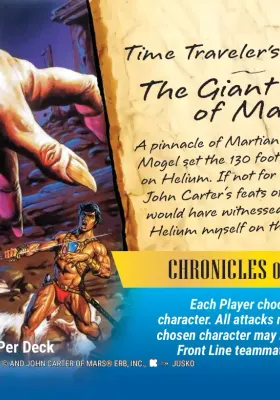
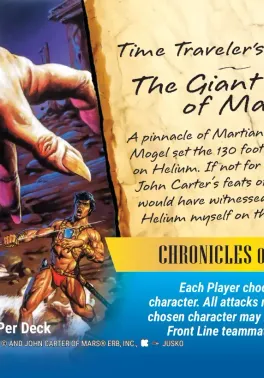
deck selection: tile preview sizing, CSS frame, thumbnail presets
Location/mission deck-tile art: transparent letterbox to cover full-bleed, then 10% smaller, then 5% larger. Update deck-selection.css frame and border-radius. Adjust locations and missions/events presets in generateCardThumbnails.ts; regenerate event thumbnails. Refresh IMAGE_PIPELINE.md and STYLE_GUIDE.md.

diff --git a/src/scripts/generateCardThumbnails.ts b/src/scripts/generateCardThumbnails.ts
@@ -26,9 +26,9 @@ type ThumbResizeConfig = {
 };
 
 const PRESET_CHARACTER: ThumbResizeConfig = { width: 380, height: 280, fit: 'cover' };
-const PRESET_MISSION: ThumbResizeConfig = { width: 280, height: 400, fit: 'cover' };
-/** Matches deck tile slot 250×160 (2×); `cover` fills the frame with no letterboxing (may crop tall/wide art). */
-const PRESET_LOCATION: ThumbResizeConfig = { width: 500, height: 320, fit: 'cover' };
+const PRESET_MISSION: ThumbResizeConfig = { width: 264, height: 378, fit: 'cover' };
+/** Matches deck tile location slot 236×151 (2×); `cover` fills the frame (may crop tall/wide art). */
+const PRESET_LOCATION: ThumbResizeConfig = { width: 472, height: 302, fit: 'cover' };
 
 /** One entry per top-level folder under src/resources/cards/images (excluding backgrounds, etc.). */
 const THUMB_CONFIGS: Record<string, ThumbResizeConfig> = {
@@ -150,7 +150,7 @@ async function generateThumbnails(): Promise<void> {
     console.log('   --force: regenerating all thumbnails (ignoring skip cache)');
   }
   console.log(
-    '   Presets: character-like 380×280 cover; mission/event-like 280×400 cover; locations 500×320 cover (2× retina) | WebP quality:',
+    '   Presets: character-like 380×280 cover; mission/event-like 264×378 cover; locations 472×302 cover (2× retina) | WebP quality:',
     WEBP_QUALITY
   );
   console.log('');

diff --git a/public/css/deck-selection.css b/public/css/deck-selection.css
@@ -132,8 +132,8 @@
 }
 
 .deck-card.deck-tile.deck-tile--compact .deck-tile-location-preview {
-    width: 250px;
-    height: 160px;
+    width: 236px;
+    height: 151px;
     border-color: rgba(254, 202, 87, 0.45);
     /* Slightly tighter radius + clip so background art matches the frame edge-to-edge */
     border-radius: 10px;
@@ -141,9 +141,9 @@
 }
 
 .deck-card.deck-tile.deck-tile--compact .deck-tile-mission-preview {
-    width: 140px;
-    height: 200px;
-    border-radius: 18px;
+    width: 132px;
+    height: 189px;
+    border-radius: 17px;
 }
 
 /* Hover focus for location/mission previews (match character-accordion “lift” feel) */

diff --git a/docs/current/IMAGE_PIPELINE.md b/docs/current/IMAGE_PIPELINE.md
@@ -44,8 +44,8 @@ Dimensions match the exact CSS pixel sizes used on deck tiles. Changing either r
 | Preset (in `THUMB_CONFIGS`) | 2× source (Sharp) | Typical use |
 |----------------------------|-------------------|-------------|
 | Character-like (`cover`)   | 380×280           | characters, specials, power-cards, aspects, universe folders |
-| Mission-like (`cover`)     | 280×400           | missions, events |
-| Location-like (`cover`)    | 500×320           | locations |
+| Mission-like (`cover`)     | 264×378           | missions, events |
+| Location-like (`cover`)    | 472×302           | locations |
 
 Deck tile CSS still targets characters / locations / missions in `public/css/deck-selection.css`. Other card types reuse the character or mission preset for list/search thumbnails.
 
@@ -54,7 +54,7 @@ To change dimensions, update `THUMB_CONFIGS` in `src/scripts/generateCardThumbna
 ### Resize fit (`cover` vs `contain`)
 
 - **Characters** and **missions**: thumbnails use Sharp **`cover`** (fills the box; may crop edges).
-- **Locations**: thumbnails use Sharp **`cover`** at 500×320 (same aspect as the deck-tile location slot `250×160`). The bitmap fills the frame edge-to-edge in deck selection (no letterboxing). **Tall or wide source art may be cropped** at top/bottom or sides; full-card views should use full-resolution art or the editor/hover layer. DBV and other surfaces that use location thumbs share this crop.
+- **Locations**: thumbnails use Sharp **`cover`** at 472×302 (2× the deck-tile location slot `236×151`). The bitmap fills the frame edge-to-edge in deck selection (no letterboxing). **Tall or wide source art may be cropped** at top/bottom or sides; full-card views should use full-resolution art or the editor/hover layer. DBV and other surfaces that use location thumbs share this crop.
 
 After changing resize behavior, regenerate all location thumbs once: `npm run generate:thumbnails -- --force` (otherwise mtime skip leaves old files).
 
@@ -122,7 +122,7 @@ npm run generate:thumbnails
 Output example:
 ```
 🖼  Generating card thumbnails (all card-art directories; backgrounds excluded)...
-   Presets: character-like 380×280 cover; mission/event-like 280×400 cover; locations 500×320 cover (2× retina) | WebP quality: 80
+   Presets: character-like 380×280 cover; mission/event-like 264×378 cover; locations 472×302 cover (2× retina) | WebP quality: 80
 
 📁 characters/  (380×280, cover)
    ✓ spider-man.webp → thumb/spider-man.webp

diff --git a/docs/current/STYLE_GUIDE.md b/docs/current/STYLE_GUIDE.md
@@ -332,8 +332,8 @@ The Overpower Deckbuilder follows a dark, modern design aesthetic with a focus o
       - `.deck-tile-title` uses **Info Blue** at ~90% opacity (`rgba(72, 219, 251, 0.9)`) and a retro-futuristic system font stack (`"Trebuchet MS"`, `"Avenir Next"`, `"Segoe UI"`, `system-ui`)
     - **Preview sizing**:
       - Characters stack: `.deck-character-card-display` (`190px × 140px`, overlap via `margin-left: -38px`)
-      - Location preview: `.deck-tile-preview-card.deck-tile-location-preview` (`250px × 160px`, border `rgba(254, 202, 87, 0.45)`). Thumbnails use **`cover`** at 500×320 so art fills the slot; **`border-radius: 10px`** and **`overflow: hidden`** align the frame with the clipped background image (see `IMAGE_PIPELINE.md`).
-      - Mission preview: `.deck-tile-preview-card.deck-tile-mission-preview` (`140px × 200px`)
+      - Location preview: `.deck-tile-preview-card.deck-tile-location-preview` (`236px × 151px`, border `rgba(254, 202, 87, 0.45)`). Thumbnails use **`cover`** at 472×302 (2×); **`border-radius: 10px`** and **`overflow: hidden`** align the frame with the clipped background image (see `IMAGE_PIPELINE.md`).
+      - Mission preview: `.deck-tile-preview-card.deck-tile-mission-preview` (`132px × 189px`, `border-radius: 17px`)
       - Empty preview state (no selection): `.deck-tile-preview-card--empty`
         - **Goal**: empty **Location** and **Mission** slots should match empty **Character** slots
         - **Unified empty styling** (matches `.deck-character-card-display.empty`):
